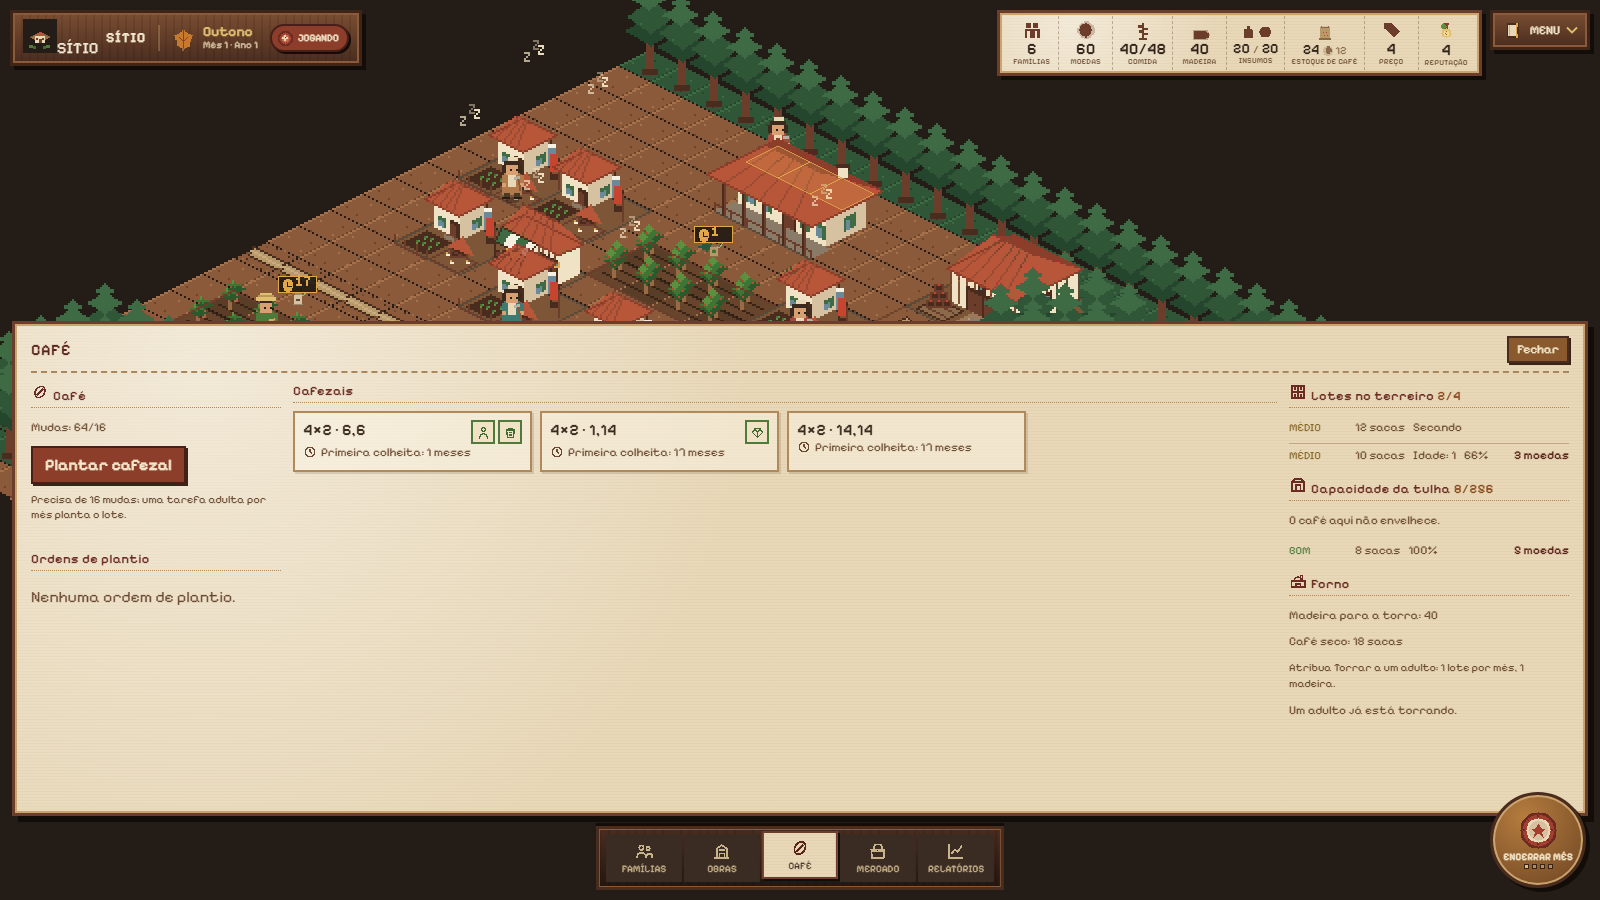
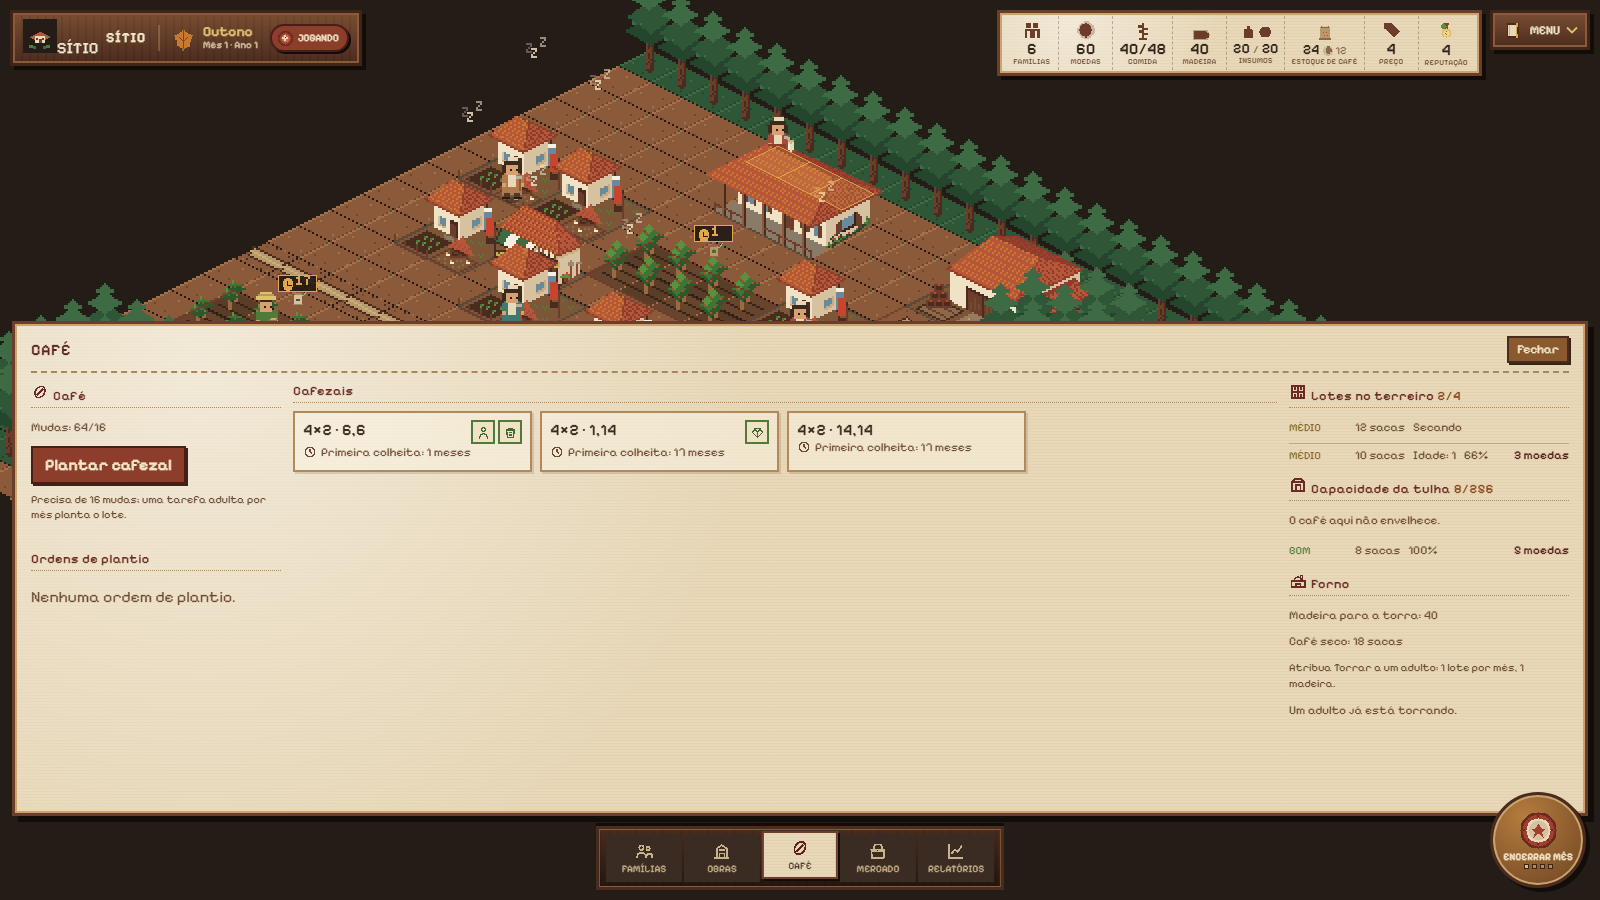
docs: refresh screenshots for the visual pass

diff --git a/README.md b/README.md
@@ -166,6 +166,10 @@ and reads the farm; the renderer draws it with the Sítio theme. See the
 Aseprite edits; `pnpm art:draw` rebuilds the document from the Lua generator and
 discards manual edits.
 
+The current manual art pass is documented in
+[`art/sitio/visual-pass.md`](art/sitio/visual-pass.md), with before/after
+comparisons for the refreshed buildings and trees.
+
 ## Fork & remix
 
 Sítio is AGPL-3.0-or-later for the game code and Apache-2.0 for the reusable
